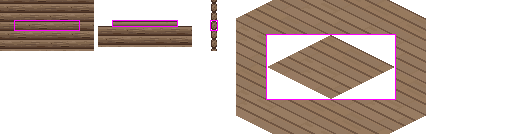
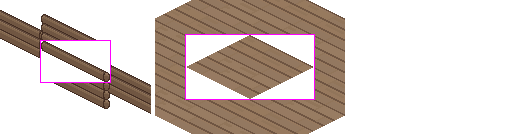
Cabana: a tora é uma peça só, modelo do dono (arte_casa/conceito_dono.png), so as cores sao do Claude

diff --git a/casa_pecas.html b/casa_pecas.html
@@ -4,9 +4,9 @@
 <script>
 // teste de encaixe das peças da cabana (arte_casa/pecas, geradas por casa_do_gemini.mjs) com o personagem na mesma escala
 const cv = document.getElementById('c'), ctx = cv.getContext('2d'); ctx.imageSmoothingEnabled = false;
-const nomes = ['parede_sw', 'parede_se', 'ponta_sw', 'ponta_se', 'piso_1', 'piso_2', 'piso_3'], IMG = {}; let falta = nomes.length;
+const nomes = ['parede_sw', 'parede_se', 'piso_1', 'piso_2', 'piso_3'], IMG = {}; let falta = nomes.length;
 fetch('arte_casa/pecas.json').catch(() => null);
-const INFO = { parede_sw: { ax: 0, ay: 108 }, parede_se: { ax: 0, ay: 76 }, ponta_sw: { ax: 6, ay: 108 }, ponta_se: { ax: -64, ay: 76 } };
+const INFO = { parede_sw: { ax: 4, ay: 103 }, parede_se: { ax: 4, ay: 73 } };
 for (const n of nomes) { const i = new Image(); i.onload = () => { if (!--falta) desenha(); }; i.src = 'arte_casa/pecas/' + n + '.png'; IMG[n] = i; }
 function desenha() {
   const Z = +new URLSearchParams(location.search).get('z') || 2; ctx.fillStyle = '#849766'; ctx.fillRect(0, 0, cv.width, cv.height); ctx.save(); ctx.scale(Z, Z);
@@ -16,9 +16,7 @@ function desenha() {
   const DYW = +new URLSearchParams(location.search).get('dyw') || 0, peca = (nome, vx, vy, d) => { const a = INFO[nome], im = IMG[nome]; lista.push({ d, f: () => ctx.drawImage(im, Math.round(vx - a.ax), Math.round(vy - a.ay + DYW)) }); };
   for (let i = 0; i < NI; i++) { const [x, y] = cel(i, 0); peca('parede_se', x, y - 32, i + 0 + .1); }        // aresta NE de cada célula da fileira de trás
   for (let j = 0; j < NJ; j++) { const [x, y] = cel(0, j); peca('parede_sw', x - 64, y, j + 0 + .1); }      // aresta NW de cada célula da coluna da esquerda
-  // pontas redondas das toras (coluna de discos) nas pontas livres perto da câmera: esquerda da parede ↙ do canto de baixo e direita da última parede ↘
-  { const [x, y] = cel(0, NJ - 1); peca('ponta_sw', x - 64, y, NJ - 1 + .2); } { const [x, y] = cel(NI - 1, 0); peca('ponta_se', x, y - 32, NI - 1 + .2); }
-  const P = PERS.create('S'), [px, py] = cel(1, 1); lista.push({ d: 1.5, f: () => PERS.draw(ctx, P, px, py) });
+    const P = PERS.create('S'), [px, py] = cel(1, 1); lista.push({ d: 1.5, f: () => PERS.draw(ctx, P, px, py) });
   lista.sort((a, b) => a.d - b.d).forEach(o => o.f()); ctx.restore();
 }
 </script></html>

diff --git a/NOTAS.md b/NOTAS.md
@@ -140,3 +140,4 @@ Estilo: cabana de toras escuras com telhado verde (referência do dono). Peças 
 - Referência de alvo (cabana em corte com lareira de pedra, cama de retalhos, mesa com lampião, tapete, prateleira com mochilas, janela, porta de tábuas verticais): ver conversa de 2026-11-09. Plano: porta/janela/lareira/móveis como peças soltas do Gemini, coladas sobre a parede por código.
 - **Edição à mão da cabana (2026-11-09):** `node casa_para_editar.mjs` → `Downloads/casa_para_editar.png` (520×223): módulos `tora` (64×12), `capa` (64×5), `canto_topo`, `canto_camada`, `canto_base` e `piso`, cada um dentro de uma moldura MAGENTA (só o interior vale; em volta vem o contexto: toras vizinhas, camadas repetidas, pisos vizinhos). Depois de exportar no editor-pixel: `node casa_aplicar_edicoes.mjs <png>` grava `arte_casa/editadas/<nome>.png` e remonta as peças (`casa_piso.mjs` e `casa_toras.mjs` respeitam os desenhos). O dono desenha a forma e o Claude dá as cores (recolorir pela rampa de brilho da cabana). Referência da montagem atual: `Downloads/casa_montagem_atual.png`.
 - **Conceito do dono (desenho "desenho (1).png", 2026-11-09)** — substitui o canto grosso: tora FINA (cilindro de 9 px de altura, 64 de comprimento), parede = 8 toras + tampa de 5 = 77 px (a altura que ele marcou com as linhas azuis), colunas de DISCOS (ponta redonda das toras) nas pontas livres perto da câmera, e onde duas paredes se encontram não há poste (só se encostam). `casa_toras.mjs` foi reescrito para isso (a versão com canto do Gemini ficou em `casa_toras_v1_canto.mjs`). Peças: `parede_se`, `parede_sw`, `ponta_se`, `ponta_sw`, pisos. Módulos para desenhar (folha `casa_para_editar.mjs`): `tora` (64×9), `capa` (64×5), `disco` (6×9), `piso`.
+- **Correção (mesma data): a tora é UMA peça só, o modelo é o do dono.** `casa_toras.mjs` agora lê o bastão que ele desenhou em `arte_casa/conceito_dono.png` (região x226–300, y132–180; papéis pelas cores: vermelho = contorno, (121,95,77) = corpo, (81,57,44) = faixa escura), só dá as cores da cabana e empilha 8 vezes (passo 9). A ponta redonda faz parte da tora (sem "disco" nem "ponta" separados, sem canto/poste). `parede_se` = a tora ↘ como ele desenhou; `parede_sw` = espelhada. Módulos da folha do editor: `tora` (69×41) e `piso`. Pontos de apoio em `arte_casa/pecas.json` (coluna 4 da última tora sobre a aresta do losango). Remonte com `node casa_piso.mjs && node casa_toras.mjs`.
